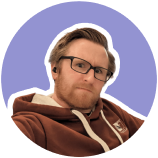
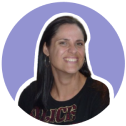
team page done

diff --git a/team.html b/team.html
@@ -261,13 +261,14 @@
             <div class="cmn-content">
               <h3 class="secondary-title">Our Ethos</h3>
               <p>
-                SET Recruitment was formed out of the success of its sister
-                company MPS Healthcare, having been an integral staffing
-                provider to the NHS and embedded in the recruitment sector since
-                2000. The business operates throughout Wales with a staffing
-                structure designed to expertly match education workers’ skill
-                sets and experience to local schools, for covering short- and
-                long-term supply assignments.
+                Established in 2000, MPS Healthcare has built a successful
+                business through our unique service offering. We provide a
+                quality workforce solution to our clients by putting patient
+                care, innovation and customer service at the heart of everything
+                we do. MPS Healthcare is one of Wales’ largest and most
+                respected nursing agency and the leading supplier on the NHS All
+                Wales Agency Framework, where MPS supply over 50% of nursing
+                professionals across Wales.
               </p>
             </div>
 
@@ -306,7 +307,7 @@
               </div>
             </div>
             <!-- ./team-rw -->
-            <div class="team-rw three">
+            <div class="team-rw four">
               <div class="team-member">
                 <div class="thumbnail">
                   <img src="assets/img/2.png" alt="" class="img-fluid" />
@@ -328,113 +329,148 @@
                 <h5>Vicky Rees</h5>
                 <p>Head of Candidate & Clinical Services</p>
               </div>
-            </div>
-            <!-- ./team-rw -->
-            <div class="team-rw three">
               <div class="team-member">
                 <div class="thumbnail">
                   <img src="assets/img/5.png" alt="" class="img-fluid" />
                 </div>
-                <h5>Declan Palmer</h5>
-                <p>Regional Coordinator</p>
+                <h5>Eleanor Butler</h5>
+                <p>Operations Manager</p>
               </div>
+            </div>
+            <!-- ./team-rw -->
+            <div class="team-rw four">
               <div class="team-member">
                 <div class="thumbnail">
                   <img src="assets/img/6.png" alt="" class="img-fluid" />
                 </div>
-                <h5>Gareth Peters</h5>
-                <p>General Manager</p>
+                <h5>Josh Brunsdon</h5>
+                <p>Client Manager</p>
               </div>
               <div class="team-member">
                 <div class="thumbnail">
                   <img src="assets/img/7.png" alt="" class="img-fluid" />
                 </div>
-                <h5>Sean Cheung</h5>
-                <p>Regional Coordinator</p>
+                <h5>Max Padfield</h5>
+                <p>Placements Manager</p>
               </div>
-            </div>
-            <!-- ./team-rw -->
-            <div class="team-rw three">
               <div class="team-member">
                 <div class="thumbnail">
                   <img src="assets/img/8.png" alt="" class="img-fluid" />
-                </div>
-                <h5>Zanny Wright</h5>
-                <p>Regional Coordinator</p>
-              </div>
-              <div class="team-member">
-                <div class="thumbnail">
-                  <img src="assets/img/9.png" alt="" class="img-fluid" />
-                </div>
-                <h5>Sharon Jones</h5>
-                <p>Regional Coordinator</p>
-              </div>
-              <div class="team-member">
-                <div class="thumbnail">
-                  <img src="assets/img/10.png" alt="" class="img-fluid" />
-                </div>
-                <h5>Carl Greatrex</h5>
-                <p>Regional Coordinator</p>
-              </div>
-            </div>
-            <!-- ./team-rw -->
-
-            <div class="team-rw four">
-              <div class="team-member">
-                <div class="thumbnail">
-                  <img src="assets/img/11.png" alt="" class="img-fluid" />
-                </div>
-                <h5>Cerys Jones</h5>
-                <p>Candidate Care Manager</p>
-              </div>
-              <div class="team-member">
-                <div class="thumbnail">
-                  <img src="assets/img/12.png" alt="" class="img-fluid" />
                 </div>
                 <h5>Teresa Walsh</h5>
                 <p>Compliance Manager</p>
               </div>
               <div class="team-member">
                 <div class="thumbnail">
+                  <img src="assets/img/9.png" alt="" class="img-fluid" />
+                </div>
+                <h5>Emma Humphreys</h5>
+                <p>Candidate Care Manager</p>
+              </div>
+            </div>
+            <!-- ./team-rw -->
+            <div class="team-rw five">
+              <div class="team-member">
+                <div class="thumbnail">
+                  <img src="assets/img/10.png" alt="" class="img-fluid" />
+                </div>
+                <h5>Emma Moyle</h5>
+                <p>Senior Placement Coordinator</p>
+              </div>
+              <div class="team-member">
+                <div class="thumbnail">
+                  <img src="assets/img/11.png" alt="" class="img-fluid" />
+                </div>
+                <h5>Morgan Phillips</h5>
+                <p>Placement Coordinator</p>
+              </div>
+              <div class="team-member">
+                <div class="thumbnail">
+                  <img src="assets/img/12.png" alt="" class="img-fluid" />
+                </div>
+                <h5>Sam Hayes</h5>
+                <p>Placement Coordinator</p>
+              </div>
+              <div class="team-member">
+                <div class="thumbnail">
                   <img src="assets/img/13.png" alt="" class="img-fluid" />
                 </div>
-                <h5>Michelle Wait</h5>
-                <p>Compliance Coordinator</p>
+                <h5>Ruth Rees-Jones</h5>
+                <p>Placement Coordinator</p>
               </div>
               <div class="team-member">
                 <div class="thumbnail">
                   <img src="assets/img/14.png" alt="" class="img-fluid" />
                 </div>
-                <h5>Laura Trewartha</h5>
+                <h5>Kath Summerhayes</h5>
+                <p>Placement Coordinator</p>
+              </div>
+            </div>
+            <!-- ./team-rw -->
+
+            <div class="team-rw five">
+              <div class="team-member">
+                <div class="thumbnail">
+                  <img src="assets/img/15.png" alt="" class="img-fluid" />
+                </div>
+                <h5>Joanna Roberts</h5>
                 <p>Compliance Coordinator</p>
+              </div>
+              <div class="team-member">
+                <div class="thumbnail">
+                  <img src="assets/img/16.png" alt="" class="img-fluid" />
+                </div>
+                <h5>Sian Jones</h5>
+                <p>Compliance Coordinator</p>
+              </div>
+              <div class="team-member">
+                <div class="thumbnail">
+                  <img src="assets/img/17.png" alt="" class="img-fluid" />
+                </div>
+                <h5>Diane James</h5>
+                <p>Compliance Coordinator</p>
+              </div>
+              <div class="team-member">
+                <div class="thumbnail">
+                  <img src="assets/img/18.png" alt="" class="img-fluid" />
+                </div>
+                <h5>Sophie Jaynes</h5>
+                <p>Compliance Coordinator</p>
+              </div>
+              <div class="team-member">
+                <div class="thumbnail">
+                  <img src="assets/img/19.png" alt="" class="img-fluid" />
+                </div>
+                <h5>Catherine Rodgers-Bond</h5>
+                <p>Onboarding Team Leader</p>
               </div>
             </div>
             <!-- ./team-rw -->
             <div class="team-rw four">
               <div class="team-member">
                 <div class="thumbnail">
-                  <img src="assets/img/15.png" alt="" class="img-fluid" />
+                  <img src="assets/img/20.png" alt="" class="img-fluid" />
                 </div>
                 <h5>Jack Isaac</h5>
                 <p>Payroll Team Leader</p>
               </div>
               <div class="team-member">
                 <div class="thumbnail">
-                  <img src="assets/img/16.png" alt="" class="img-fluid" />
-                </div>
-                <h5>Sue Davies</h5>
-                <p>Senior Payroll Coordinator</p>
-              </div>
-              <div class="team-member">
-                <div class="thumbnail">
-                  <img src="assets/img/17.png" alt="" class="img-fluid" />
+                  <img src="assets/img/21.png" alt="" class="img-fluid" />
                 </div>
                 <h5>Nikisha James</h5>
                 <p>Payroll Coordinator</p>
               </div>
               <div class="team-member">
                 <div class="thumbnail">
-                  <img src="assets/img/18.png" alt="" class="img-fluid" />
+                  <img src="assets/img/22.png" alt="" class="img-fluid" />
+                </div>
+                <h5>Sue Davies</h5>
+                <p>Senior Payroll Coordinator</p>
+              </div>
+              <div class="team-member">
+                <div class="thumbnail">
+                  <img src="assets/img/23.png" alt="" class="img-fluid" />
                 </div>
                 <h5>Melanie Radcliffe</h5>
                 <p>Payroll Coordinator</p>
@@ -444,10 +480,37 @@
             <div class="team-rw one bottom">
               <div class="team-member">
                 <div class="thumbnail">
-                  <img src="assets/img/19.png" alt="" class="img-fluid" />
+                  <img src="assets/img/24.png" alt="" class="img-fluid" />
                 </div>
                 <h5>Jack Hayes</h5>
-                <p>Social Media & Marketing</p>
+                <p>Social Media and Digital Marketing Coordinator</p>
+              </div>
+            </div>
+            <!-- ./team-rw -->
+            <div class="team-rw two">
+              <div class="team-member">
+                <div class="thumbnail">
+                  <img src="assets/img/25.png" alt="" class="img-fluid" />
+                </div>
+                <h5>Seren Kane</h5>
+                <p>Out of Hours Coordinator</p>
+              </div>
+              <div class="team-member">
+                <div class="thumbnail">
+                  <img src="assets/img/26.png" alt="" class="img-fluid" />
+                </div>
+                <h5>Megan Parsons</h5>
+                <p>Out of Hours Coordinator</p>
+              </div>
+            </div>
+            <!-- ./team-rw -->
+            <div class="team-rw one bottom">
+              <div class="team-member">
+                <div class="thumbnail">
+                  <img src="assets/img/27.png" alt="" class="img-fluid" />
+                </div>
+                <h5>Claire Betty</h5>
+                <p>Receptionist</p>
               </div>
             </div>
             <!-- ./team-rw -->

diff --git a/assets/css/main.css b/assets/css/main.css
@@ -1142,7 +1142,7 @@ ol {
   margin-top: 75px;
   padding-top: 0;
   position: relative;
-  width: 270px;
+  width: 284px;
   margin-left: 10px;
   margin-right: 10px;
   margin-bottom: 60px;
@@ -1187,8 +1187,14 @@ ol {
   -ms-transform: translateX(-50%);
   transform: translateX(-50%);
 }
+.team-rw.two::before {
+  width: 303px;
+}
 .team-rw.four::before {
-  width: 870px;
+  width: 914px;
+}
+.team-rw.five::before {
+  width: 974px;
 }
 .thumbnail img {
   width: 150px;
@@ -1226,6 +1232,9 @@ ol {
 }
 .type-2 .hro-inner-text {
   max-width: 645px;
+}
+.team-rw.five .team-member {
+  width: 224px;
 }
 /* team page css end */
 
